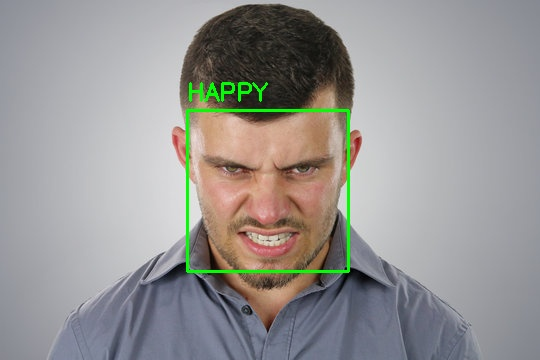
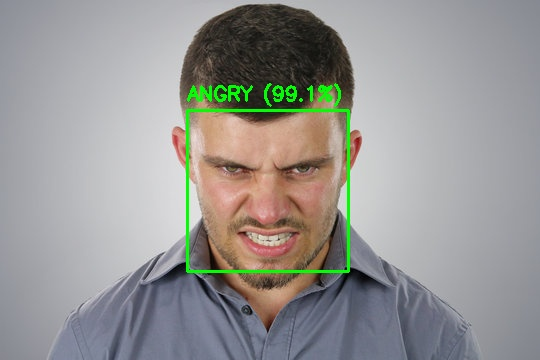
Use pretrained model for facial expression prediction

Changed region(s): [[0.3259, 0.2139, 0.6519, 0.3056]]

diff --git a/batch_expression_prediction.py b/batch_expression_prediction.py
@@ -1,18 +1,35 @@
 
-import cv2
-import joblib
 import os
 from collections import Counter
 from tkinter import Tk, filedialog
 
-# Load the trained model
-MODEL_PATH = "emotion_model.pkl"
-model = joblib.load(MODEL_PATH)
+import cv2
+from PIL import Image
+from transformers import pipeline
 
-# Face detector
-face_detector = cv2.CascadeClassifier(
-    cv2.data.haarcascades + "haarcascade_frontalface_default.xml"
+MODEL_NAME = "trpakov/vit-face-expression"
+
+print("Loading pretrained facial expression model...")
+classifier = pipeline(
+    "image-classification",
+    model=MODEL_NAME,
+    device=-1
 )
+
+face_detector = cv2.CascadeClassifier(
+    cv2.data.haarcascades
+    + "haarcascade_frontalface_default.xml"
+)
+
+EMOTION_MAP = {
+    "happy": "happy",
+    "sad": "sad",
+    "angry": "angry",
+    "neutral": "neutral",
+    "surprise": "happy",
+    "fear": "sad",
+    "disgust": "angry"
+}
 
 
 def predict_expression(image_path):
@@ -36,30 +53,48 @@ def predict_expression(image_path):
         return None
 
     # Select the largest face
-    x, y, w, h = max(faces, key=lambda face: face[2] * face[3])
+    x, y, w, h = max(
+        faces, key=lambda face: face[2] * face[3]
+    )
 
-    face = gray[y:y + h, x:x + w]
-    face = cv2.resize(face, (48, 48))
-    features = face.flatten().reshape(1, -1)
+    # Prepare face for pretrained model
+    face_bgr = image[y:y + h, x:x + w]
+    face_rgb = cv2.cvtColor(face_bgr, cv2.COLOR_BGR2RGB)
+    face_pil = Image.fromarray(face_rgb)
 
-    prediction = str(model.predict(features)[0]).lower()
+    predictions = classifier(face_pil, top_k=1)
 
-    # Mark the predicted expression
-    cv2.rectangle(image, (x, y), (x + w, y + h), (0, 255, 0), 2)
-    cv2.putText(
+    raw_emotion = predictions[0]["label"].lower()
+    confidence = predictions[0]["score"] * 100
+    emotion = EMOTION_MAP.get(raw_emotion, "neutral")
+
+    # Draw face box and predicted emotion
+    label = f"{emotion.upper()} ({confidence:.1f}%)"
+
+    cv2.rectangle(
         image,
-        prediction.upper(),
-        (x, max(y - 10, 20)),
-        cv2.FONT_HERSHEY_SIMPLEX,
-        0.8,
+        (x, y),
+        (x + w, y + h),
         (0, 255, 0),
         2
     )
 
-    output_path = os.path.splitext(image_path)[0] + "_prediction.jpg"
+    cv2.putText(
+        image,
+        label,
+        (x, max(y - 10, 25)),
+        cv2.FONT_HERSHEY_SIMPLEX,
+        0.65,
+        (0, 255, 0),
+        2
+    )
+
+    output_path = (
+        os.path.splitext(image_path)[0] + "_prediction.jpg"
+    )
     cv2.imwrite(output_path, image)
 
-    return prediction
+    return emotion
 
 
 def main():
@@ -91,6 +126,7 @@ def main():
             total += 1
 
     print("\n===== EXPRESSION SUMMARY =====")
+
     for emotion in ["happy", "sad", "angry", "neutral"]:
         print(f"{emotion.capitalize()} = {results[emotion]}")
 
@@ -101,9 +137,3 @@ def main():
 
 if __name__ == "__main__":
     main()
-
-
-
-
-
-

diff --git a/test_pretrained_model.py b/test_pretrained_model.py
@@ -1,0 +1,38 @@
+
+from transformers import pipeline
+from PIL import Image
+from pathlib import Path
+
+MODEL_NAME = "trpakov/vit-face-expression"
+
+print("Loading pretrained model. First run may take a few minutes...")
+
+classifier = pipeline(
+    "image-classification",
+    model=MODEL_NAME
+)
+
+image_folder = Path("images")
+extensions = {".jpg", ".jpeg", ".png"}
+
+for image_path in sorted(image_folder.iterdir()):
+    if image_path.suffix.lower() not in extensions:
+        continue
+
+    # Skip previously generated prediction images
+    if image_path.stem.endswith("_prediction"):
+        continue
+
+    try:
+        image = Image.open(image_path).convert("RGB")
+        results = classifier(image, top_k=3)
+
+        print(f"\nImage: {image_path.name}")
+        for result in results:
+            print(
+                f"  {result['label']}: "
+                f"{result['score'] * 100:.2f}%"
+            )
+
+    except Exception as error:
+        print(f"Could not process {image_path.name}: {error}")
